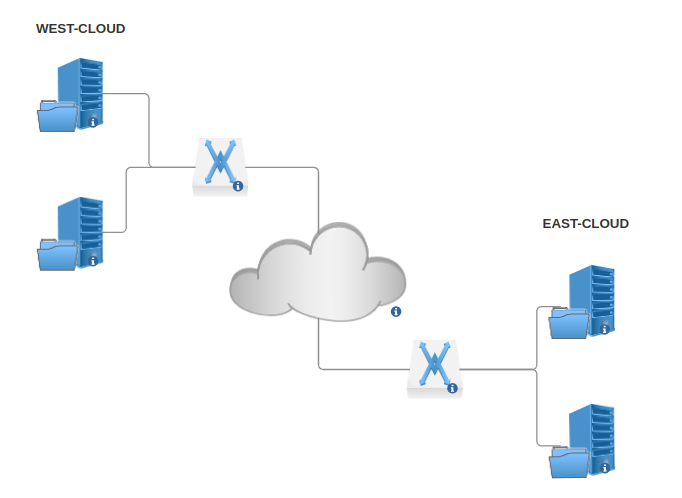
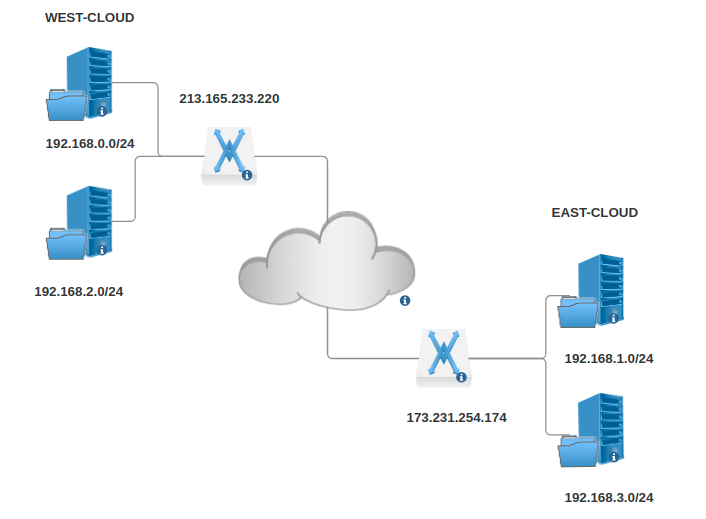
added ips to network diagram and grammar fixes

Changed region(s): [[0.0308, 0.0, 0.9238, 0.994]]

diff --git a/docs/tutorials/create-site-to-site-vpn-on-bobcat.md b/docs/tutorials/create-site-to-site-vpn-on-bobcat.md
@@ -6,19 +6,19 @@ no dedicated virtual machines are required to use this service.
 
 ## Prerequisites
 
-- Cloud configured for [VPNaaS](vpnaas-configure-deploy.md)
 - Familiarity with OpenStackClient
 
 ## Notable Changes
 
-- In Bobcat, the VPN driver changed from libreswan to Strongswan
+- In Bobcat, the VPN driver changed from Libreswan to strongSwan
 
 ## Overview
 
-This HowTo explains how to configure a VPN Site-to-Site connection using OpenStack.
-This allows you to configure communication between private networks across regions.
+This article explains how to configure a VPN Site-to-Site connection using OpenStack.
+This allows you to configure communication between private networks across different
+locations.
 
-We will be using 2 OpenStack regions which will be referred to as East Cloud and
+We will be using 2 OpenStack clouds which will be referred to as East Cloud and
 West Cloud. Each cloud will have 1 router attached to subnets utilizing 1 VPN service.
 
 In this guide, we'll be creating West-Cloud as our local VPN and all steps
@@ -38,7 +38,7 @@ Subnet - west-primary-subnet & west-secondary-subnet
 
 - [Networking in OpenStack](https://openmetal.io/docs/manuals/users-manual/network-ip-traffic)
 
-1. Associate both subnets created
+Associate both subnets created
 
 ![west associate subnet](images/vpnbobcat_images/west_associate_subnet.png "West Associate Subnet Creation")
 
@@ -50,13 +50,13 @@ we are setting these on two OpenStack clusters, but the settings will be similar
 on third party VPN tools. The goal is to configure both ends with the same IKE
 and IPSec Policy settings.
 
-1. Go to VPN - IKE Policies - Add IKE Policy
+Go to VPN - IKE Policies - Add IKE Policy
 
 ![ike policy button](images/vpnbobcat_images/ike_policy_button.png "IKE Policy Button")
 
 ![ike policy configs](images/vpnbobcat_images/ike_policy_configs.png "IKE Policy Configs")
 
-1. Go to VPN - IPsec Policies - Add IPsec Policy
+Go to VPN - IPsec Policies - Add IPsec Policy
 
 ![ipsec policy button](images/vpnbobcat_images/ipsec_policy_button.png "IPSec Policy Button")
 
@@ -74,8 +74,6 @@ external IP addresses assigned to each.
 > Current limitations require each remote endpoint group to have a single subnet.
 > Each remote endpoint group requiring its own site2site connection.
 
-1. Create VPN west
-
 ![west vpn button](images/vpnbobcat_images/west_vpn_service_button.png "West VPN Button")
 
 ![west vpn configs](images/vpnbobcat_images/west_vpn_service_configs.png "West VPN Configs")
@@ -84,14 +82,17 @@ external IP addresses assigned to each.
 
 ### Step Four: Create Endpoint Groups
 
-1. Create west **local** endpoint groups
+The Endpoint Group is used to configure multiple local and remote subnets in a
+VPN service.
 
-    Local endpoint groups define subnets given by name or UUID. The site west
-    local endpoint contains `west-localendpointgroup`.
+Create west **local** endpoint groups
+
+Local endpoint groups define subnets given by name or UUID. The site west
+local endpoint contains `west-localendpointgroup`.
 
 ![west localendpoint](images/vpnbobcat_images/west_localendpoint.png "West Local Endpoint Group")
 
-1. Create west **peer** endpoint groups
+Create west **peer** endpoint groups
 
 ```shell
     Peer endpoint groups are CIDRs. The site west peer endpoint group will
